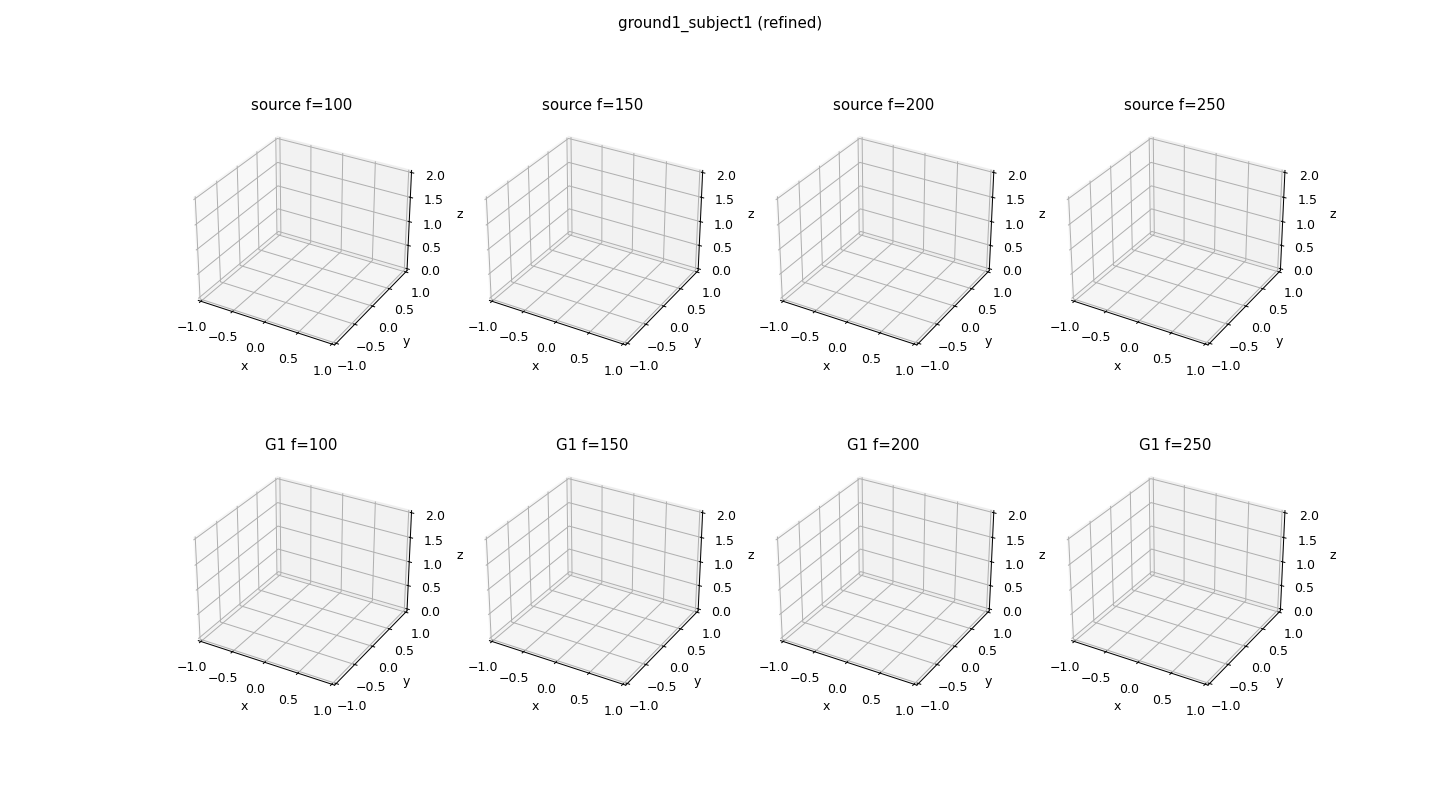
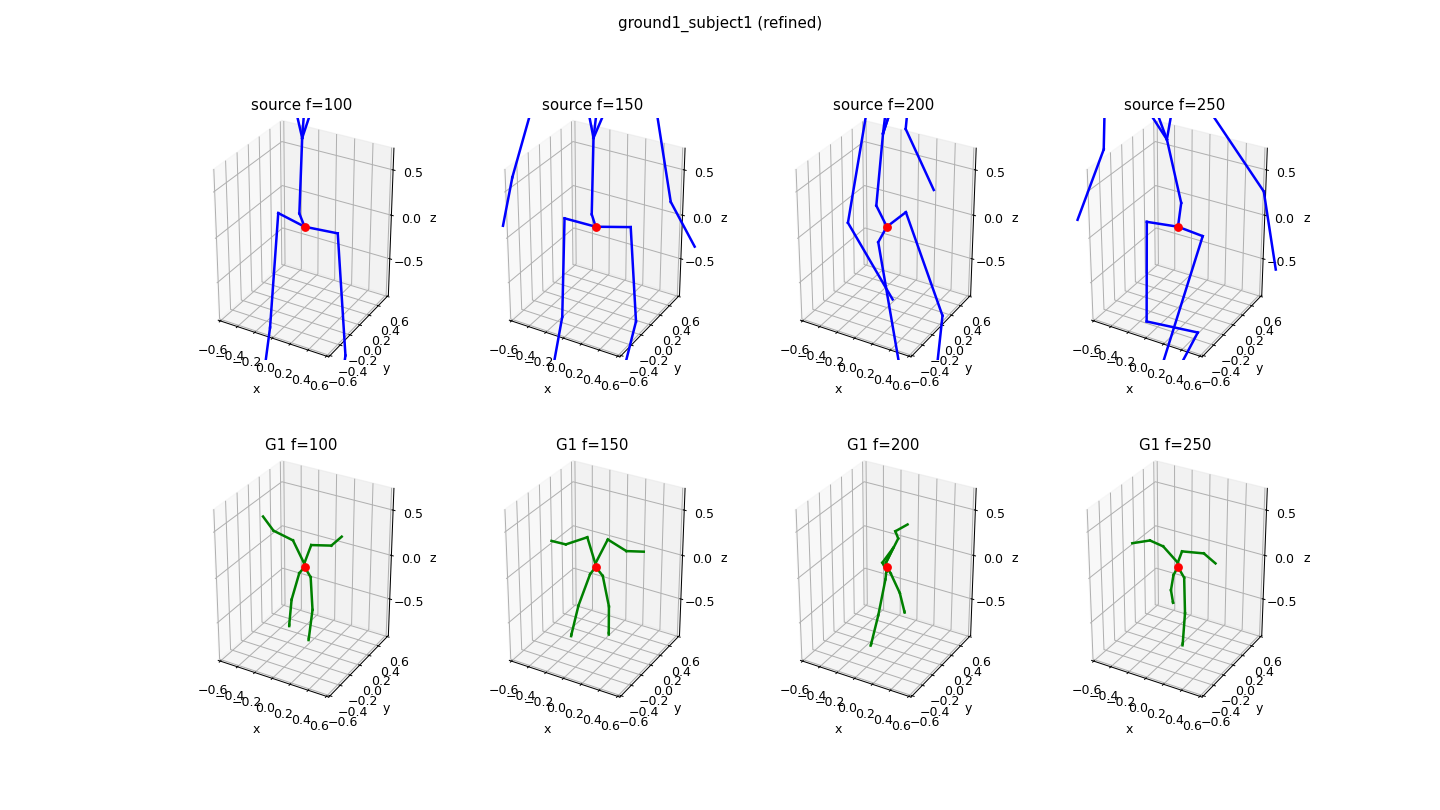
修复 viz 源骨架坐标系：W 变换到 G1 系 + 骨盆对齐原点
源骨架曾直接按 rig 原始坐标（上=+x）绘制，横躺且超出轴限制，
目检时"source 没有姿态"。现与评估同口径：W 变换（上=+z、米）、
双骨架骨盆对齐原点、zlim 覆盖足（−0.8m）到头顶（+0.65m）；
同时改为绘制 refine_full 精修后数据（标题本就标注 refined）。
新增 test_viz.py 坐标系回归 + PNG 冒烟。

diff --git a/data/viz_retarget.py b/data/viz_retarget.py
@@ -13,31 +13,30 @@ import numpy as np
 
 
 def plot_frames(bvh_path: str, out_png: str, frames, title: str = ""):
+    """源（蓝）与 G1 精修后（绿）并排，双骨架骨盆对齐到原点。
+
+    关键：源 FK 先经 W 变换转到 G1 世界系（上=+z、米）再画——曾直接
+    画 rig 原始坐标（上=+x），骨架横躺且超出轴限制，观感全错。
+    """
     import matplotlib
     matplotlib.use("Agg")
     import matplotlib.pyplot as plt
 
     from data.bvh import load_bvh
-    from data.retarget_lafan1 import G1_JOINT_NAMES, g1_forward_kinematics, retarget
+    from data.retarget_lafan1 import W, g1_forward_kinematics, retarget
+    from data.ik_refine import refine_full
 
     bvh = load_bvh(bvh_path)
-    data = retarget(bvh)
+    data = refine_full(retarget(bvh), bvh)
     T = data["qpos"].shape[0]
     frames = [min(f, T - 1) for f in frames]
 
-    # 源 FK（米，世界系）
-    gpos_src, _ = bvh.fk(unit_scale=float(data["scale"]))
+    # 源 FK（G1 世界系、米）
+    gpos_cm, _ = bvh.fk(unit_scale=1.0)
+    gpos_src = gpos_cm @ W.T * float(data["scale"])
 
     # G1 FK
-    q = data["qpos"]
-    g1_pos = g1_forward_kinematics(q, data["root_pos"], data["root_rot"])
-
-    def skeleton_lines(pos: dict, joints):
-        lines = []
-        for a, b in joints:
-            if a in pos and b in pos:
-                lines.append((pos[a], pos[b]))
-        return lines
+    g1_pos = g1_forward_kinematics(data["qpos"], data["root_pos"], data["root_rot"])
 
     src_joints = [("Hips", "Spine"), ("Spine", "Spine2"), ("Spine2", "Neck"),
                   ("Neck", "Head"),
@@ -68,27 +67,29 @@ def plot_frames(bvh_path: str, out_png: str, frames, title: str = ""):
     n = len(frames)
     fig, axes = plt.subplots(2, n, figsize=(4 * n, 9), subplot_kw={"projection": "3d"})
     for col, f in enumerate(frames):
-        # 源
+        # 源（骨盆对齐原点）
         ax = axes[0, col]
         src_pos = {name: gpos_src[f, bvh.joint_index(name)] for name in bvh.names}
+        root = src_pos["Hips"]
         for a, b in src_joints:
-            if a in src_pos and b in src_pos:
-                ax.plot([src_pos[a][0], src_pos[b][0]],
-                        [src_pos[a][1], src_pos[b][1]],
-                        [src_pos[a][2], src_pos[b][2]], "b-", lw=2)
-        ax.plot([src_pos["Hips"][0]], [src_pos["Hips"][1]], [src_pos["Hips"][2]], "ro", ms=6)
+            ax.plot([src_pos[a][0] - root[0], src_pos[b][0] - root[0]],
+                    [src_pos[a][1] - root[1], src_pos[b][1] - root[1]],
+                    [src_pos[a][2] - root[2], src_pos[b][2] - root[2]], "b-", lw=2)
+        ax.plot([0], [0], [0], "ro", ms=6)
         ax.set_title(f"source f={f}")
-        ax.set_xlim(-1, 1); ax.set_ylim(-1, 1); ax.set_zlim(0, 2)
-        ax.set_xlabel("x"); ax.set_ylabel("y"); ax.set_zlabel("z")
-        # G1
+        # G1（骨盆对齐原点）
         ax = axes[1, col]
+        g1_root = g1_pos["pelvis"][f]
         for a, b in g1_joints:
-            ax.plot([g1_pos[a][f, 0], g1_pos[b][f, 0]],
-                    [g1_pos[a][f, 1], g1_pos[b][f, 1]],
-                    [g1_pos[a][f, 2], g1_pos[b][f, 2]], "g-", lw=2)
-        ax.plot([g1_pos["pelvis"][f, 0]], [g1_pos["pelvis"][f, 1]], [g1_pos["pelvis"][f, 2]], "ro", ms=6)
+            ax.plot([g1_pos[a][f, 0] - g1_root[0], g1_pos[b][f, 0] - g1_root[0]],
+                    [g1_pos[a][f, 1] - g1_root[1], g1_pos[b][f, 1] - g1_root[1]],
+                    [g1_pos[a][f, 2] - g1_root[2], g1_pos[b][f, 2] - g1_root[2]], "g-", lw=2)
+        ax.plot([0], [0], [0], "ro", ms=6)
         ax.set_title(f"G1 f={f}")
-        ax.set_xlim(-1, 1); ax.set_ylim(-1, 1); ax.set_zlim(0, 2)
+    for ax in axes.flat:
+        # 骨盆在原点：足 ≈ −0.8m，源头顶 ≈ +0.65m
+        ax.set_xlim(-0.6, 0.6); ax.set_ylim(-0.6, 0.6); ax.set_zlim(-0.9, 0.7)
+        ax.set_box_aspect((1.2, 1.2, 1.6))
         ax.set_xlabel("x"); ax.set_ylabel("y"); ax.set_zlabel("z")
     fig.suptitle(title)
     os.makedirs(os.path.dirname(out_png), exist_ok=True)

diff --git a/tests/test_viz.py b/tests/test_viz.py
@@ -1,0 +1,42 @@
+"""data/viz_retarget.py：冒烟 + 坐标系回归。
+
+回归防护：源骨架曾直接按 rig 原始坐标（上=+x）绘制，骨架横躺且
+超出轴限制——用户目检时"source 没有姿态"。修复为 W 变换到 G1 系
+（上=+z）并骨盆对齐原点。
+"""
+
+import os
+
+import numpy as np
+import pytest
+
+from data.bvh import load_bvh
+from data.retarget_lafan1 import W, retarget
+from data.viz_retarget import plot_frames
+
+DATA_DIR = os.path.join(os.path.dirname(__file__), "..", "data", "raw", "lafan1")
+HAS_DATA = os.path.isdir(DATA_DIR) and any(f.endswith(".bvh") for f in os.listdir(DATA_DIR))
+
+pytestmark = pytest.mark.skipif(not HAS_DATA, reason="需要 data/raw/lafan1 真实数据")
+
+
+def test_source_frame_is_g1_world(tmp_path):
+    """源骨架在 G1 系中应直立：头顶 z > 髋 z，且足在髋下方 ~0.8m。"""
+    bvh = load_bvh(os.path.join(DATA_DIR, "walk1_subject1.bvh"))
+    d = retarget(bvh)
+    gpos_cm, _ = bvh.fk(unit_scale=1.0)
+    gpos = gpos_cm @ W.T * float(d["scale"])
+    f = 200
+    root = gpos[f, bvh.joint_index("Hips")]
+    head = gpos[f, bvh.joint_index("Head")] - root
+    foot = gpos[f, bvh.joint_index("LeftFoot")] - root
+    assert head[2] > 0.5, f"头顶应在髋上方 >0.5m: {head}"
+    assert abs(head[0]) < 0.2 and abs(head[1]) < 0.2, f"头顶应基本在髋正上方: {head}"
+    assert -0.9 < foot[2] < -0.5, f"足应在髋下方 0.5~0.9m: {foot}"
+
+
+def test_plot_frames_produces_png(tmp_path):
+    out = str(tmp_path / "viz.png")
+    plot_frames(os.path.join(DATA_DIR, "walk1_subject1.bvh"), out,
+                [100, 200, 300, 400], "smoke")
+    assert os.path.getsize(out) > 10_000, "viz PNG 应正常生成"
